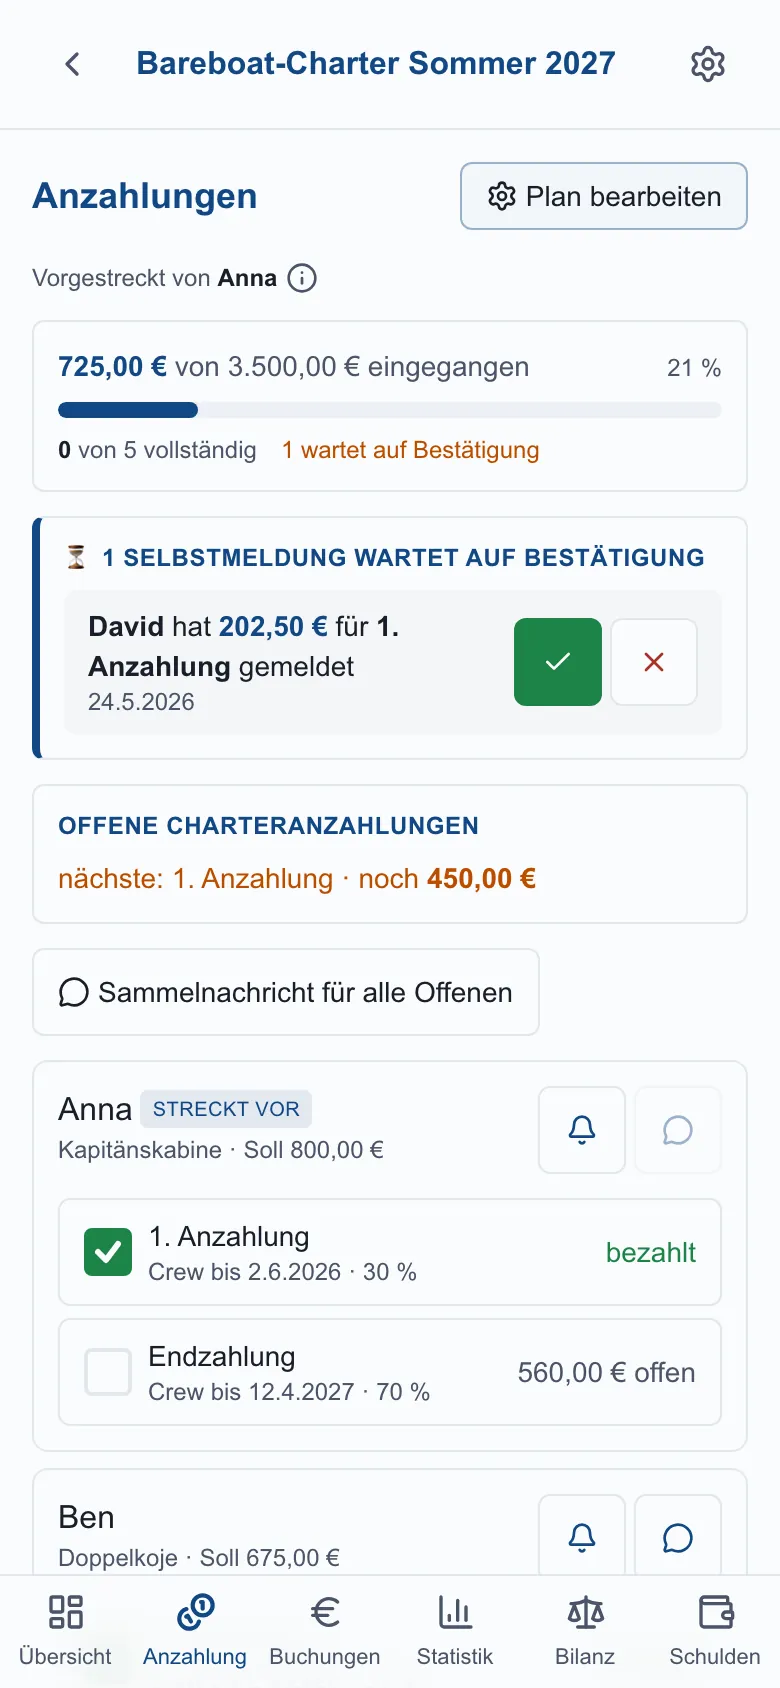
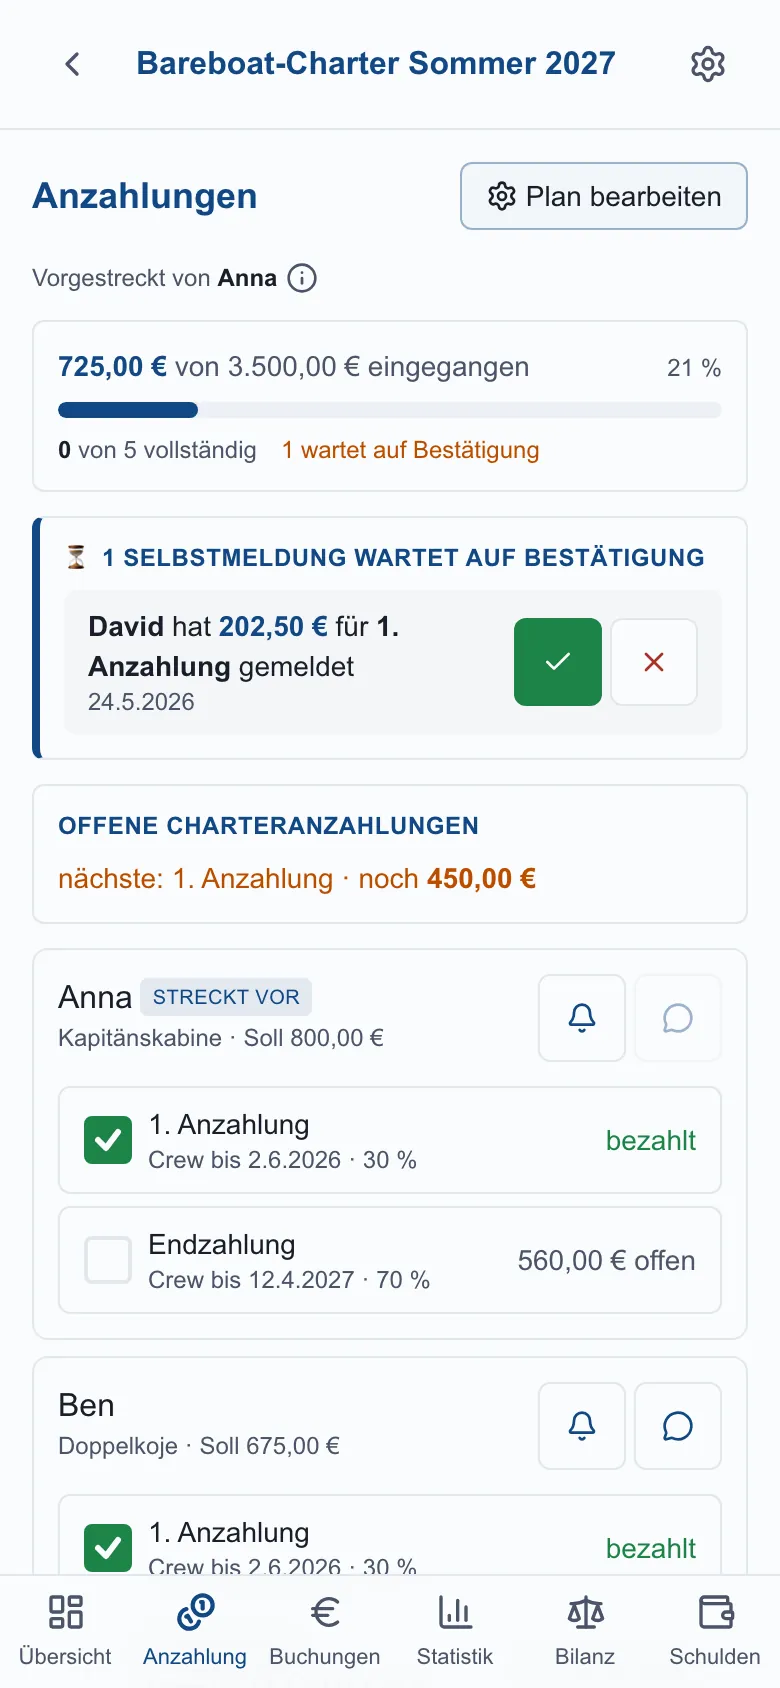
feat(anzahlungen): Sammelnachricht-Button unter Tabelle + About-Heading-Umbruch (#157)
- Anzahlungs-Matrix: Button "Sammelnachricht für alle Offenen" von oberhalb
  der Tabelle/Kacheln nach unten verschoben (vor die Statuslegende), sobald
  der Überblick steht. About-Screenshot (16-anzahlung-matrix) neu aufgenommen.
- About-Hero-Überschrift: Zeilenumbruch nach dem Fragezeichen.

diff --git a/webapp/app/trips/[id]/prepayments/matrix.tsx b/webapp/app/trips/[id]/prepayments/matrix.tsx
@@ -233,17 +233,6 @@ export function PrepaymentMatrix({ tripId, tripName, plan, tranches, cabins, mem
         charterPaidByTranche={charterPaidByTranche}
       />
 
-      {/* Sammelnachricht */}
-      <div className="mb-3">
-        <button
-          onClick={bulkWhatsApp}
-          className="inline-flex items-center gap-1 rounded-md border border-rule bg-paper px-3 py-1.5 text-sm hover:border-primary/40"
-        >
-          <MessageCircle className="h-4 w-4" />
-          Sammelnachricht für alle Offenen
-        </button>
-      </div>
-
       {/* Mobile: eine Karte pro Person — kein Seitwärts-Wischen (#4) */}
       <div className="space-y-2 sm:hidden">
         {memberRows.map(({ m, obl, cabin, cells, rowOpen, isAdvancerRow, advancerNothingOpen }) => (
@@ -383,6 +372,17 @@ export function PrepaymentMatrix({ tripId, tripName, plan, tranches, cabins, mem
             ))}
           </tbody>
         </table>
+      </div>
+
+      {/* Sammelnachricht — unter Tabelle/Kacheln, sobald der Überblick steht */}
+      <div className="mt-3">
+        <button
+          onClick={bulkWhatsApp}
+          className="inline-flex items-center gap-1 rounded-md border border-rule bg-paper px-3 py-1.5 text-sm hover:border-primary/40"
+        >
+          <MessageCircle className="h-4 w-4" />
+          Sammelnachricht für alle Offenen
+        </button>
       </div>
 
       {/* Statuslegende (#E1): unter Tabelle/Kacheln — erklärt Symbole + Aktions-Icons. */}

diff --git a/webapp/app/about/page.tsx b/webapp/app/about/page.tsx
@@ -569,7 +569,9 @@ export default function AboutPage() {
         </div>
 
         <h1 className="text-3xl font-bold text-primary">
-          Wer schuldet am Ende wem wie viel? Diese App rechnet&rsquo;s aus.
+          Wer schuldet am Ende wem wie viel?
+          <br />
+          Diese App rechnet&rsquo;s aus.
         </h1>
         <p className="mt-3 text-base leading-relaxed text-ink-soft">
           Faire Aufteilung gemeinsamer Kosten auf Segeltörns, auch wenn die
